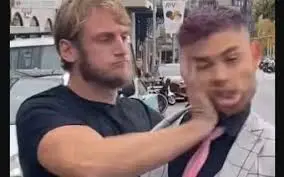
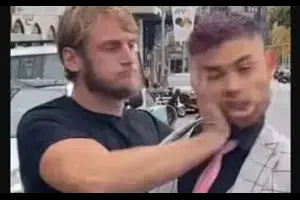
fix: image resize

diff --git a/src/components/Article.jsx b/src/components/Article.jsx
@@ -12,7 +12,9 @@ const Article = (item) => {
                     src={article.image}
                     alt={article.title}
                     title={article.title}
-                    className="w-full h-52 object-cover "
+                    width="300px"
+                    height="300px"
+                    className="w-full object-cover "
                 />
 
                 <a href={`#${article.id}`} title={`Lire l'article ${article.title}`} className="mx-4">
